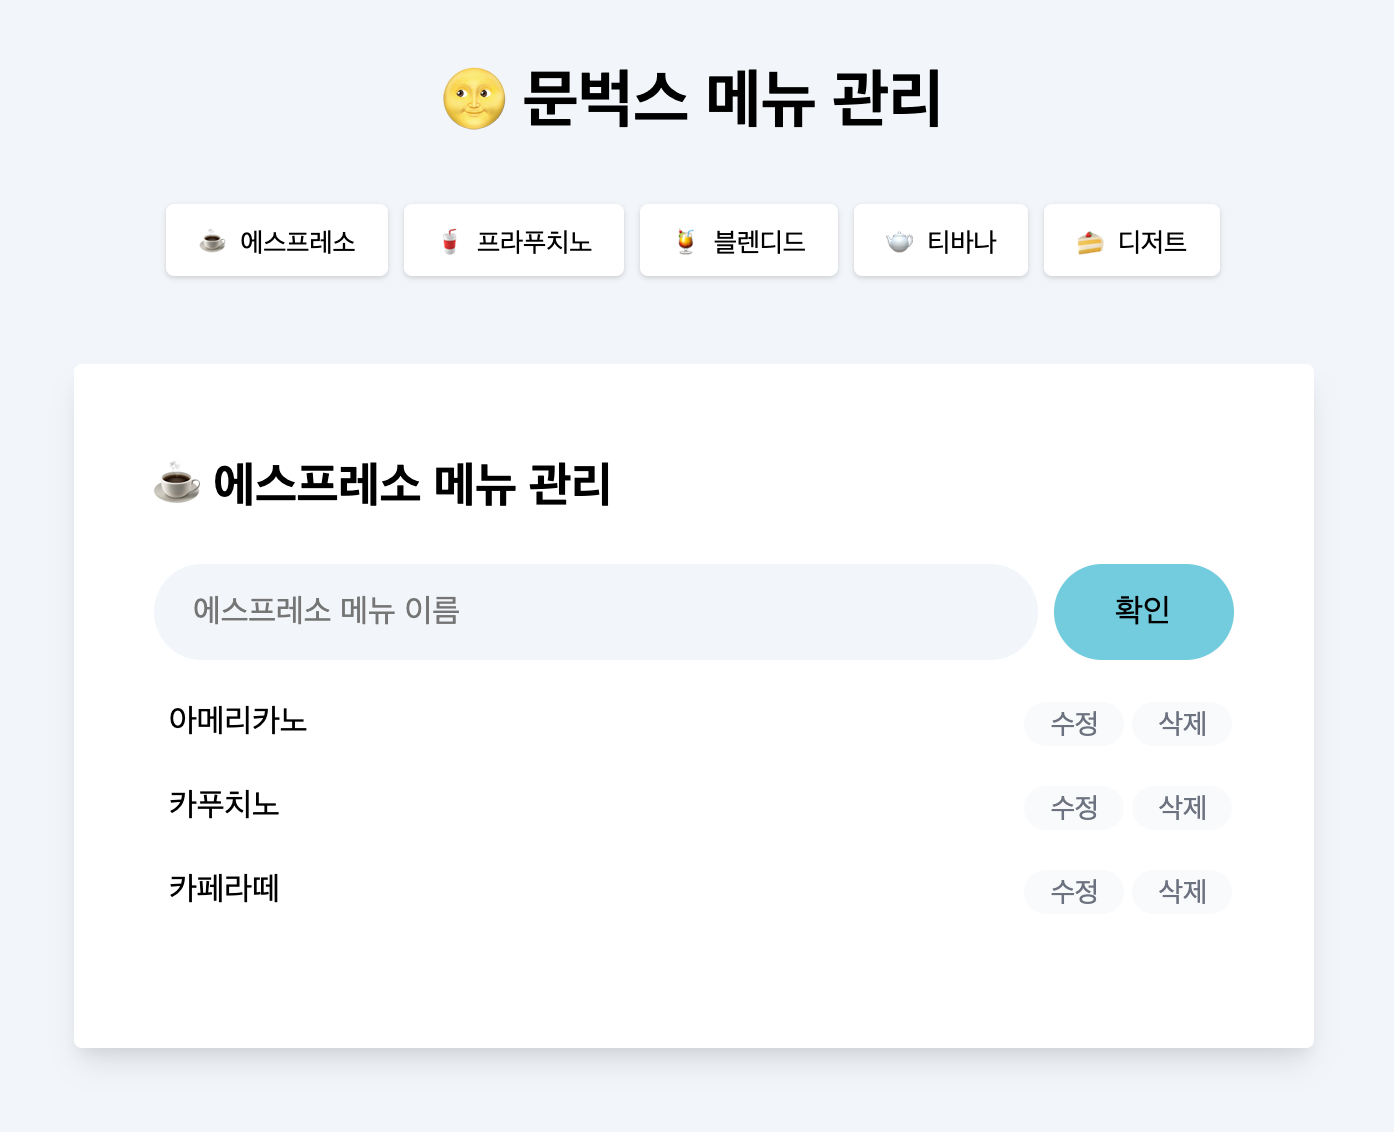
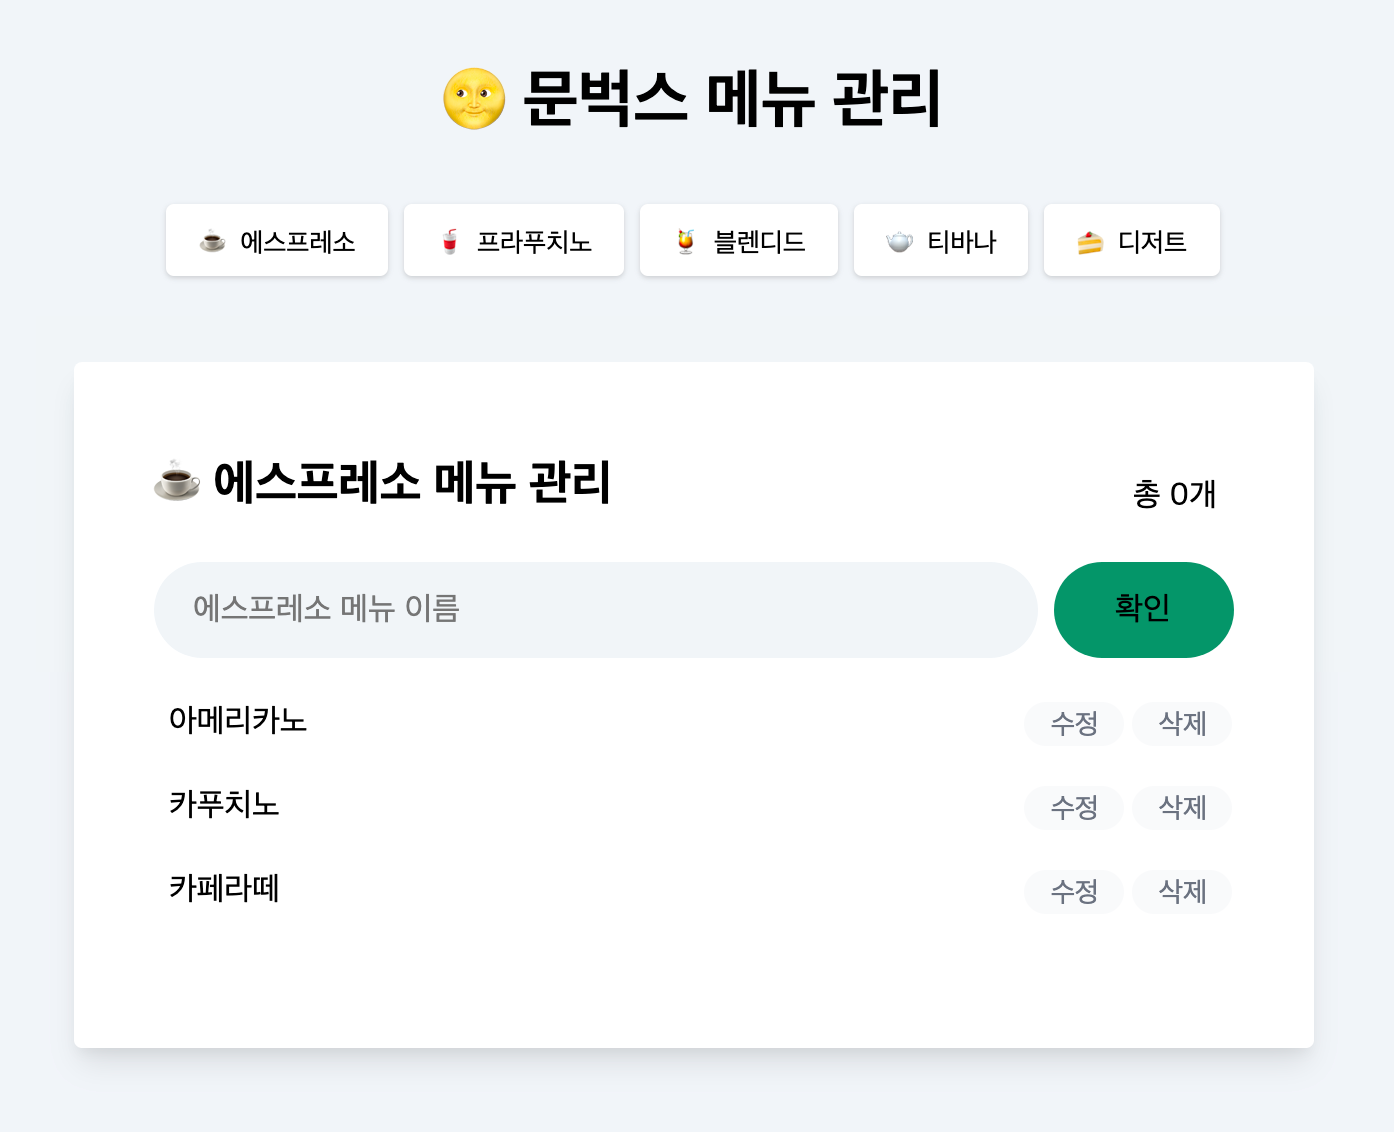
feat: add step2 features

diff --git a/src/js/index.js b/src/js/index.js
@@ -1,78 +1,167 @@
-const $ = (selector) => document.querySelector(selector);
+// TODO localStorage Read & Write
+// - [x] localStorage에 데이터를 저장한다.
+//  - [x] 메뉴를 추가할 때
+//  - [x] 메뉴를 수정할 때
+//  - [x] 메뉴를 삭제할 때
+// - [x] localStorage에 있는 데이터를 읽어온다.
+
+// TODO 카테고리별 메뉴판 관리
+// - [x] 에스프레소 메뉴판 관리
+// - [x] 프라푸치노 메뉴판 관리
+// - [x] 블렌디드 메뉴판 관리
+// - [x] 티바나 메뉴판 관리
+// - [x] 디저트 메뉴판 관리
+
+// TODO 페이지 접근시 최초 데이터 Read & Rendering
+// - [x] 페이지에 최초로 로딩될때 localStorage에 에스프레소 메뉴를 읽어온다.
+// - [x] 에스프레소 메뉴를 페이지에 그려준다.
+
+// TODO 품절 상태 관리
+// - [x] 품절 상태인 경우를 보여줄 수 있게, 품절 버튼을 추가하고 sold-out class를 추가하여 상태를 변경한다.
+// - [x] 품절 버튼을 버튼을 추가한다.
+// - [x] 품절 버튼을 클릭하면 localStorage에 상태값이 저장된다.
+// - [x] 클릭이벤트에서 가장가까운 li태그의 class속성 값에 sold-out을 추가한다.
+import { $ } from "./utils/dom.js";
+import store from "./store/index.js";
 
 function App() {
+  this.menu = {
+    espresso: [],
+    frappuccino: [],
+    blended: [],
+    teavana: [],
+    desert: [],
+  };
+  this.currentCategory = "espresso";
+
+  this.init = () => {
+    if (store.getLocalStorage()) {
+      this.menu = store.getLocalStorage();
+    }
+    render();
+    initEventListeners();
+  };
+
+  const render = () => {
+    const template = this.menu[this.currentCategory]
+      .map((menuItem, index) => {
+        return `
+      <li data-menu-id="${index}" class="menu-list-item d-flex items-center py-2">
+        <span class="w-100 pl-2 menu-name ${
+          menuItem.soldOut ? "sold-out" : ""
+        } ">${menuItem.name}</span>
+        <button
+            type="button"
+            class="bg-gray-50 text-gray-500 text-sm mr-1 menu-sold-out-button"
+        >
+            품절
+        </button>
+        <button
+          type="button"
+          class="bg-gray-50 text-gray-500 text-sm mr-1 menu-edit-button"
+        >
+          수정
+        </button>
+        <button
+          type="button"
+          class="bg-gray-50 text-gray-500 text-sm menu-remove-button"
+        >
+          삭제
+        </button>
+      </li>`;
+      })
+      .join("");
+
+    $("#menu-list").innerHTML = template;
+    updateMenuCount();
+  };
+
   const updateMenuCount = () => {
-    const menuCount = $("#espresso-menu-list").querySelectorAll("li").length;
+    const menuCount = this.menu[this.currentCategory].length;
     $(".menu-count").innerText = `총 ${menuCount} 개`;
   };
 
   const addMenuName = () => {
-    if ($("#espresso-menu-name").value === "") {
+    if ($("#menu-name").value === "") {
       alert("값을 입력해주세요.");
       return;
     }
-    const espressoMenuName = $("#espresso-menu-name").value;
-    const menuItemTemplate = (espressoMenuName) => {
-      return `
-          <li class="menu-list-item d-flex items-center py-2">
-            <span class="w-100 pl-2 menu-name">${espressoMenuName}</span>
-            <button
-              type="button"
-              class="bg-gray-50 text-gray-500 text-sm mr-1 menu-edit-button"
-            >
-              수정
-            </button>
-            <button
-              type="button"
-              class="bg-gray-50 text-gray-500 text-sm menu-remove-button"
-            >
-              삭제
-            </button>
-          </li>`;
-    };
-    $("#espresso-menu-list").insertAdjacentHTML(
-        "beforeend",
-        menuItemTemplate(espressoMenuName)
-    );
-    updateMenuCount();
-    $("#espresso-menu-name").value = "";
+    const menuName = $("#menu-name").value;
+    this.menu[this.currentCategory].push({ name: menuName });
+    store.setLocalStorage(this.menu);
+    render();
+    $("#menu-name").value = "";
   };
 
   const updateMenuName = (e) => {
+    const menuId = e.target.closest("li").dataset.menuId;
     const $menuName = e.target.closest("li").querySelector(".menu-name");
     const updatedMenuName = prompt("메뉴명을 수정하세요", $menuName.innerText);
-    $menuName.innerText = updatedMenuName;
+    this.menu[this.currentCategory][menuId].name = updatedMenuName;
+    store.setLocalStorage(this.menu);
+    render();
   };
 
   const removeMenuName = (e) => {
     if (confirm("정말 삭제하시겠습니까?")) {
-      e.target.closest("li").remove();
-      updateMenuCount();
+      const menuId = e.target.closest("li").dataset.menuId;
+      this.menu[this.currentCategory].splice(menuId, 1);
+      store.setLocalStorage(this.menu);
+      render();
     }
   };
 
-  $("#espresso-menu-list").addEventListener("click", (e) => {
-    if (e.target.classList.contains("menu-edit-button")) {
-      updateMenuName(e);
-    }
+  const soldOutMenu = (e) => {
+    const menuId = e.target.closest("li").dataset.menuId;
+    this.menu[this.currentCategory][menuId].soldOut =
+      !this.menu[this.currentCategory][menuId].soldOut;
+    store.setLocalStorage(this.menu);
+    render();
+  };
 
-    if (e.target.classList.contains("menu-remove-button")) {
-      removeMenuName(e);
-    }
-  });
+  const initEventListeners = () => {
+    $("#menu-list").addEventListener("click", (e) => {
+      if (e.target.classList.contains("menu-edit-button")) {
+        updateMenuName(e);
+        return;
+      }
 
-  $("#espresso-menu-form").addEventListener("submit", (e) => {
-    e.preventDefault();
-  });
+      if (e.target.classList.contains("menu-remove-button")) {
+        removeMenuName(e);
+        return;
+      }
 
-  $("#espresso-menu-submit-button").addEventListener("click", addMenuName);
+      if (e.target.classList.contains("menu-sold-out-button")) {
+        soldOutMenu(e);
+        return;
+      }
+    });
 
-  $("#espresso-menu-name").addEventListener("keypress", (e) => {
-    if (e.key !== "Enter") {
-      return;
-    }
-    addMenuName();
-  });
+    $("#menu-form").addEventListener("submit", (e) => {
+      e.preventDefault();
+    });
+
+    $("#menu-submit-button").addEventListener("click", addMenuName);
+
+    $("#menu-name").addEventListener("keypress", (e) => {
+      if (e.key !== "Enter") {
+        return;
+      }
+      addMenuName();
+    });
+
+    $("nav").addEventListener("click", (e) => {
+      const isCategoryButton =
+        e.target.classList.contains("cafe-category-name");
+      if (isCategoryButton) {
+        const categoryName = e.target.dataset.categoryName;
+        this.currentCategory = categoryName;
+        $("#category-title").innerText = `${e.target.innerText} 메뉴 관리`;
+        render();
+      }
+    });
+  };
 }
 
-App();
+const app = new App();
+app.init();

diff --git a/index.html b/index.html
@@ -17,53 +17,70 @@
               <h1 class="text-center font-bold">🌝 문벅스 메뉴 관리</h1>
             </a>
             <nav class="d-flex justify-center flex-wrap">
-              <a href="/" class="my-1">
-                <button class="btn bg-white shadow mx-1">☕ 에스프레소</button>
-              </a>
-              <a href="/pages/sections.html" class="my-1">
-                <button class="btn bg-white shadow mx-1">🥤 프라푸치노</button>
-              </a>
-              <a href="/pages/map.html" class="my-1">
-                <button class="btn bg-white shadow mx-1">🍹 블렌디드</button>
-              </a>
-              <a href="/pages/search.html" class="my-1">
-                <button class="btn bg-white shadow mx-1">🫖 티바나</button>
-              </a>
-              <a href="/pages/login.html" class="my-1">
-                <button class="btn bg-white shadow mx-1">🍰 디저트</button>
-              </a>
+              <button
+                data-category-name="espresso"
+                class="cafe-category-name btn bg-white shadow mx-1"
+              >
+                ☕ 에스프레소
+              </button>
+              <button
+                data-category-name="frappuccino"
+                class="cafe-category-name btn bg-white shadow mx-1"
+              >
+                🥤 프라푸치노
+              </button>
+              <button
+                data-category-name="blended"
+                class="cafe-category-name btn bg-white shadow mx-1"
+              >
+                🍹 블렌디드
+              </button>
+              <button
+                data-category-name="teavana"
+                class="cafe-category-name btn bg-white shadow mx-1"
+              >
+                🫖 티바나
+              </button>
+              <button
+                data-category-name="desert"
+                class="cafe-category-name btn bg-white shadow mx-1"
+              >
+                🍰 디저트
+              </button>
             </nav>
           </header>
           <main class="mt-10 d-flex justify-center">
             <div class="wrapper bg-white p-10">
               <div class="heading d-flex justify-between">
-                <h2 class="mt-1">☕ 에스프레소 메뉴 관리</h2>
+                <h2 id="category-title" class="mt-1">
+                  ☕ 에스프레소 메뉴 관리
+                </h2>
                 <span class="mr-2 mt-4 menu-count">총 0개</span>
               </div>
-              <form id="espresso-menu-form">
+              <form id="menu-form">
                 <div class="d-flex w-100">
-                  <label for="station-name" class="input-label" hidden>
-                    에스프레소 메뉴 이름
+                  <label for="menu-name" class="input-label" hidden>
+                    메뉴 이름
                   </label>
                   <input
                     type="text"
-                    id="espresso-menu-name"
-                    name="espressoMenuName"
+                    id="menu-name"
+                    name="menuName"
                     class="input-field"
-                    placeholder="에스프레소 메뉴 이름"
+                    placeholder="메뉴 이름"
                     autocomplete="off"
                   />
                   <button
                     type="button"
                     name="submit"
-                    id="espresso-menu-submit-button"
+                    id="menu-submit-button"
                     class="input-submit bg-green-600 ml-2"
                   >
                     확인
                   </button>
                 </div>
               </form>
-              <ul id="espresso-menu-list" class="mt-3 pl-0"></ul>
+              <ul id="menu-list" class="mt-3 pl-0"></ul>
             </div>
           </main>
         </div>

diff --git a/src/js/utils/dom.js b/src/js/utils/dom.js
@@ -1,4 +1,1 @@
-export const $ = ($selector) => $selector && document.querySelector($selector);
-export const $$ = ($selector) =>
-  $selector && document.querySelectorAll($selector);
-
+export const $ = (selector) => document.querySelector(selector);

diff --git a/src/js/store/index.js b/src/js/store/index.js
@@ -1,0 +1,10 @@
+const store = {
+  setLocalStorage(menu) {
+    localStorage.setItem("menu", JSON.stringify(menu));
+  },
+  getLocalStorage() {
+    return JSON.parse(localStorage.getItem("menu"));
+  },
+};
+
+export default store;

diff --git a/src/css/index.css b/src/css/index.css
@@ -46,3 +46,8 @@ ul li button {
 ul li button:hover {
   background-color: rgb(229, 231, 235);
 }
+
+.sold-out {
+  text-decoration: line-through;
+  color: gray;
+}
